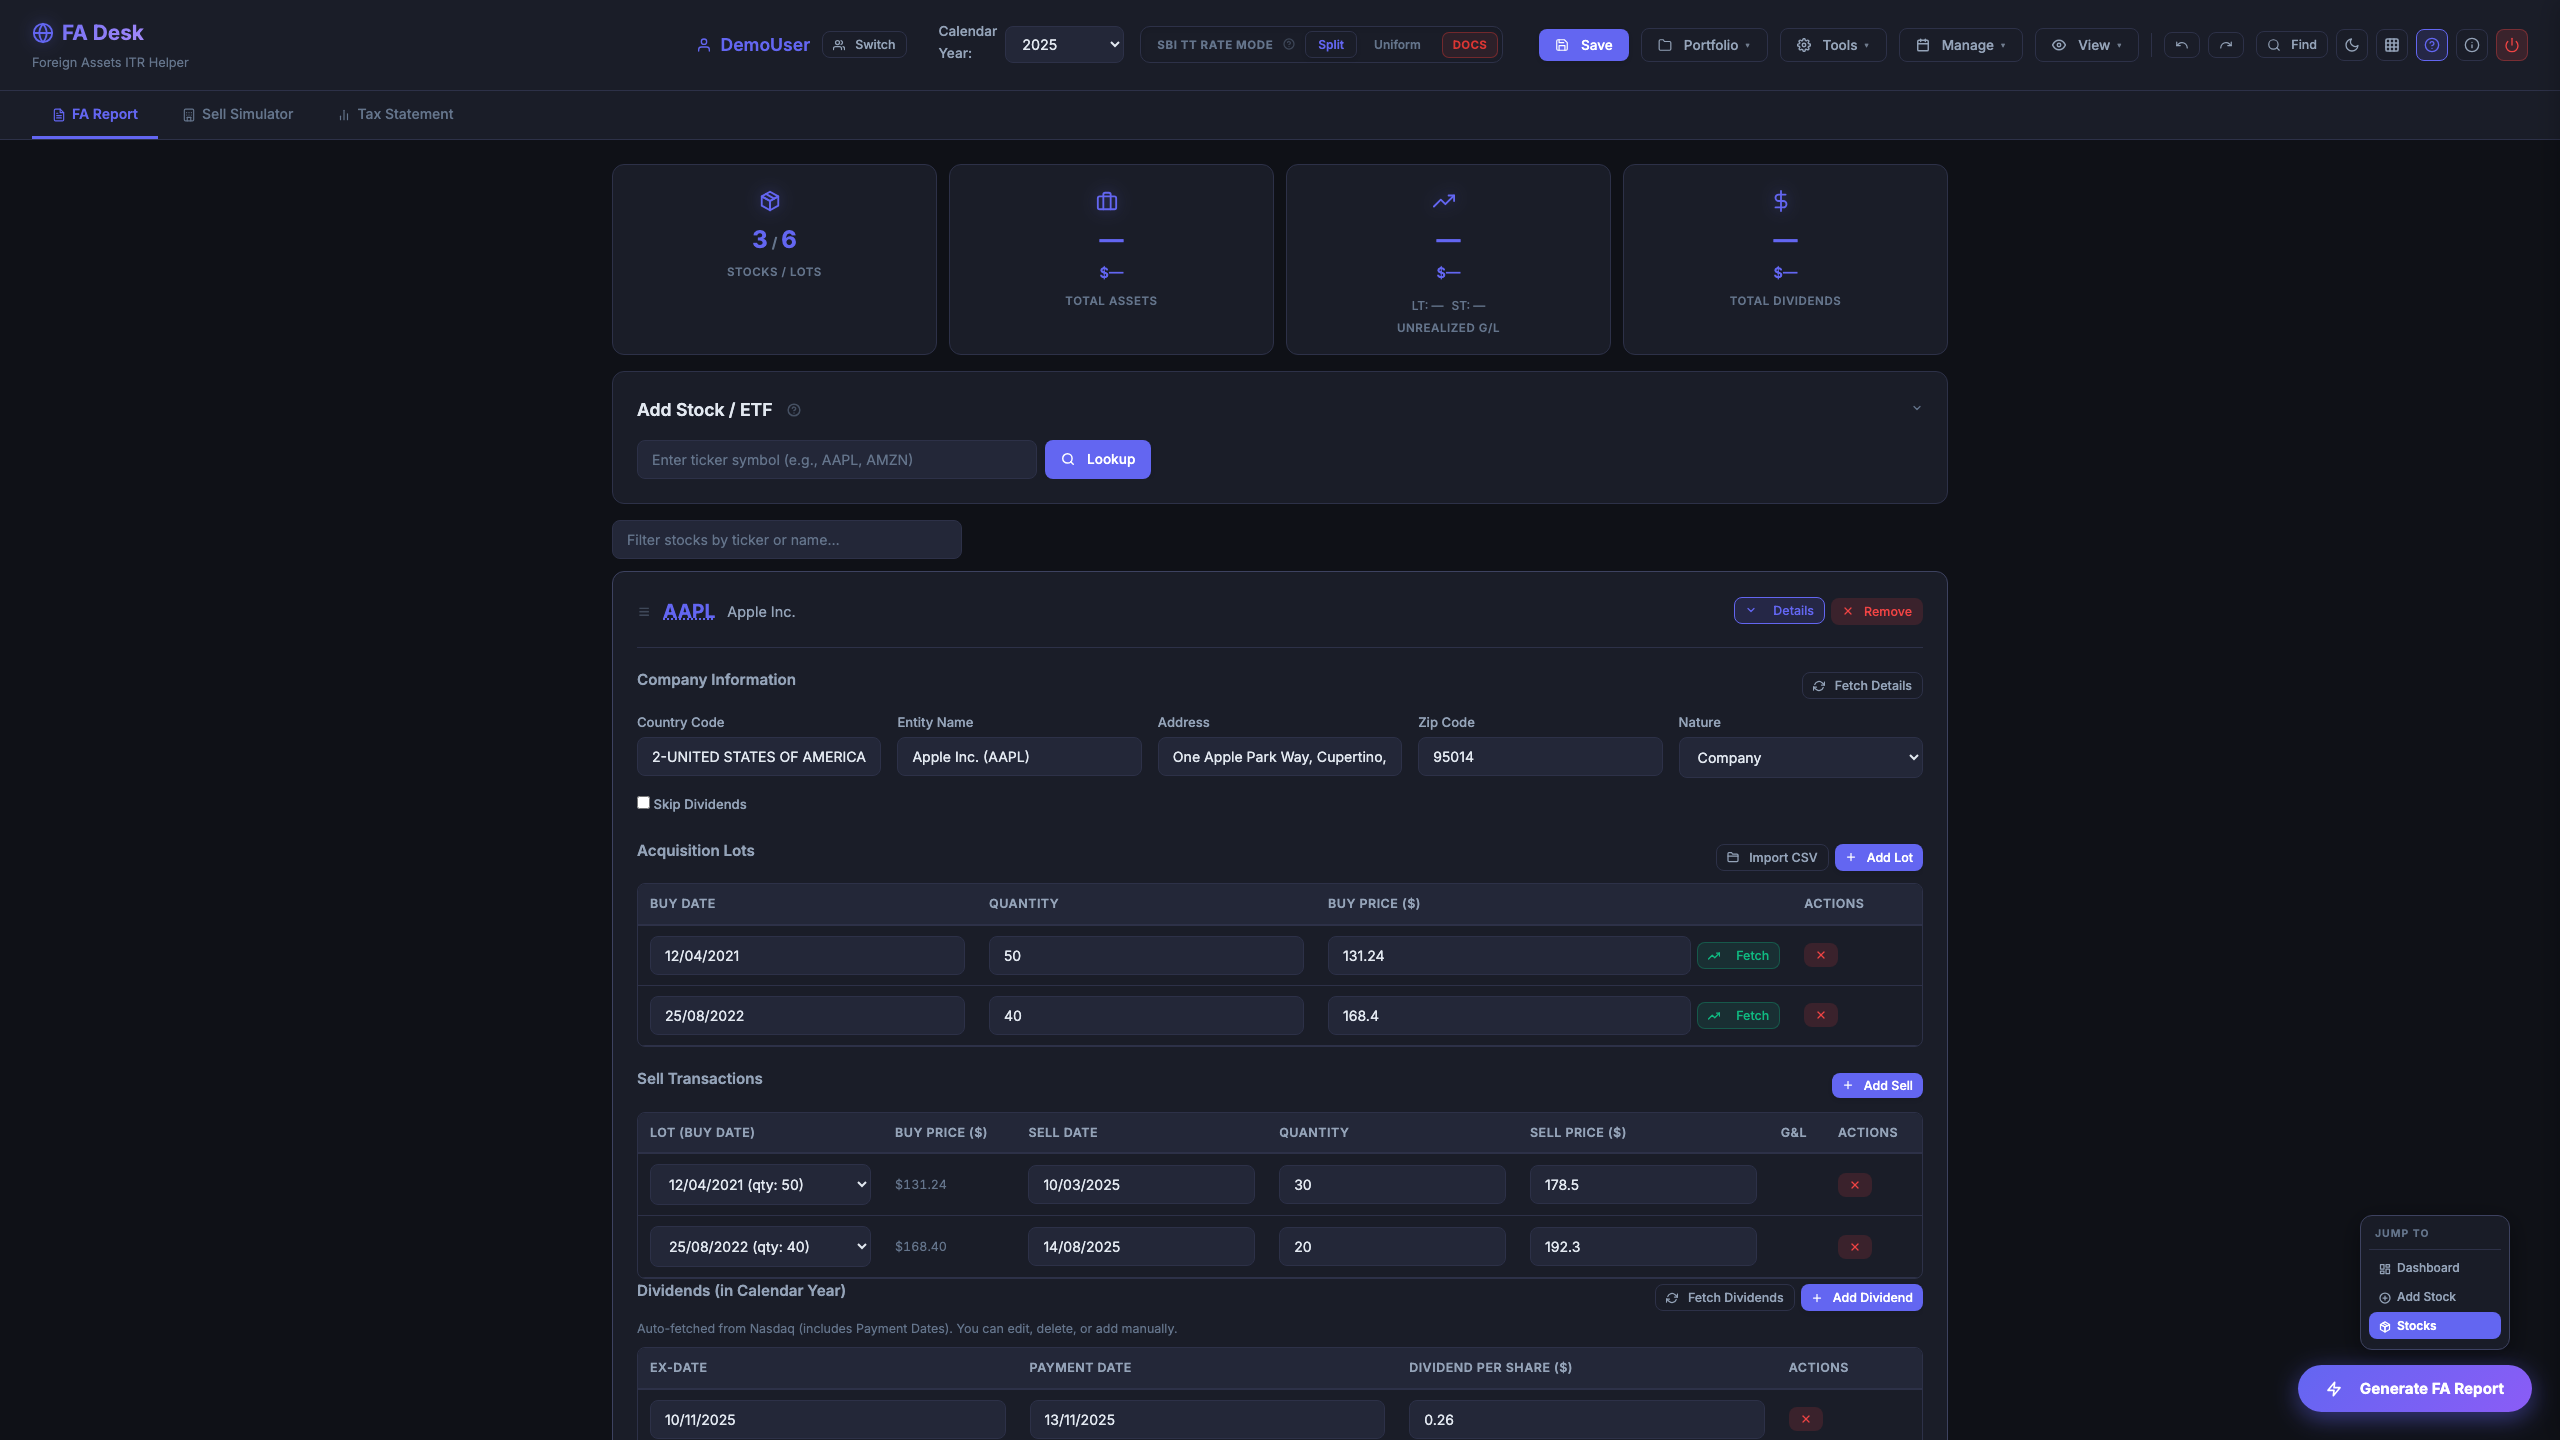
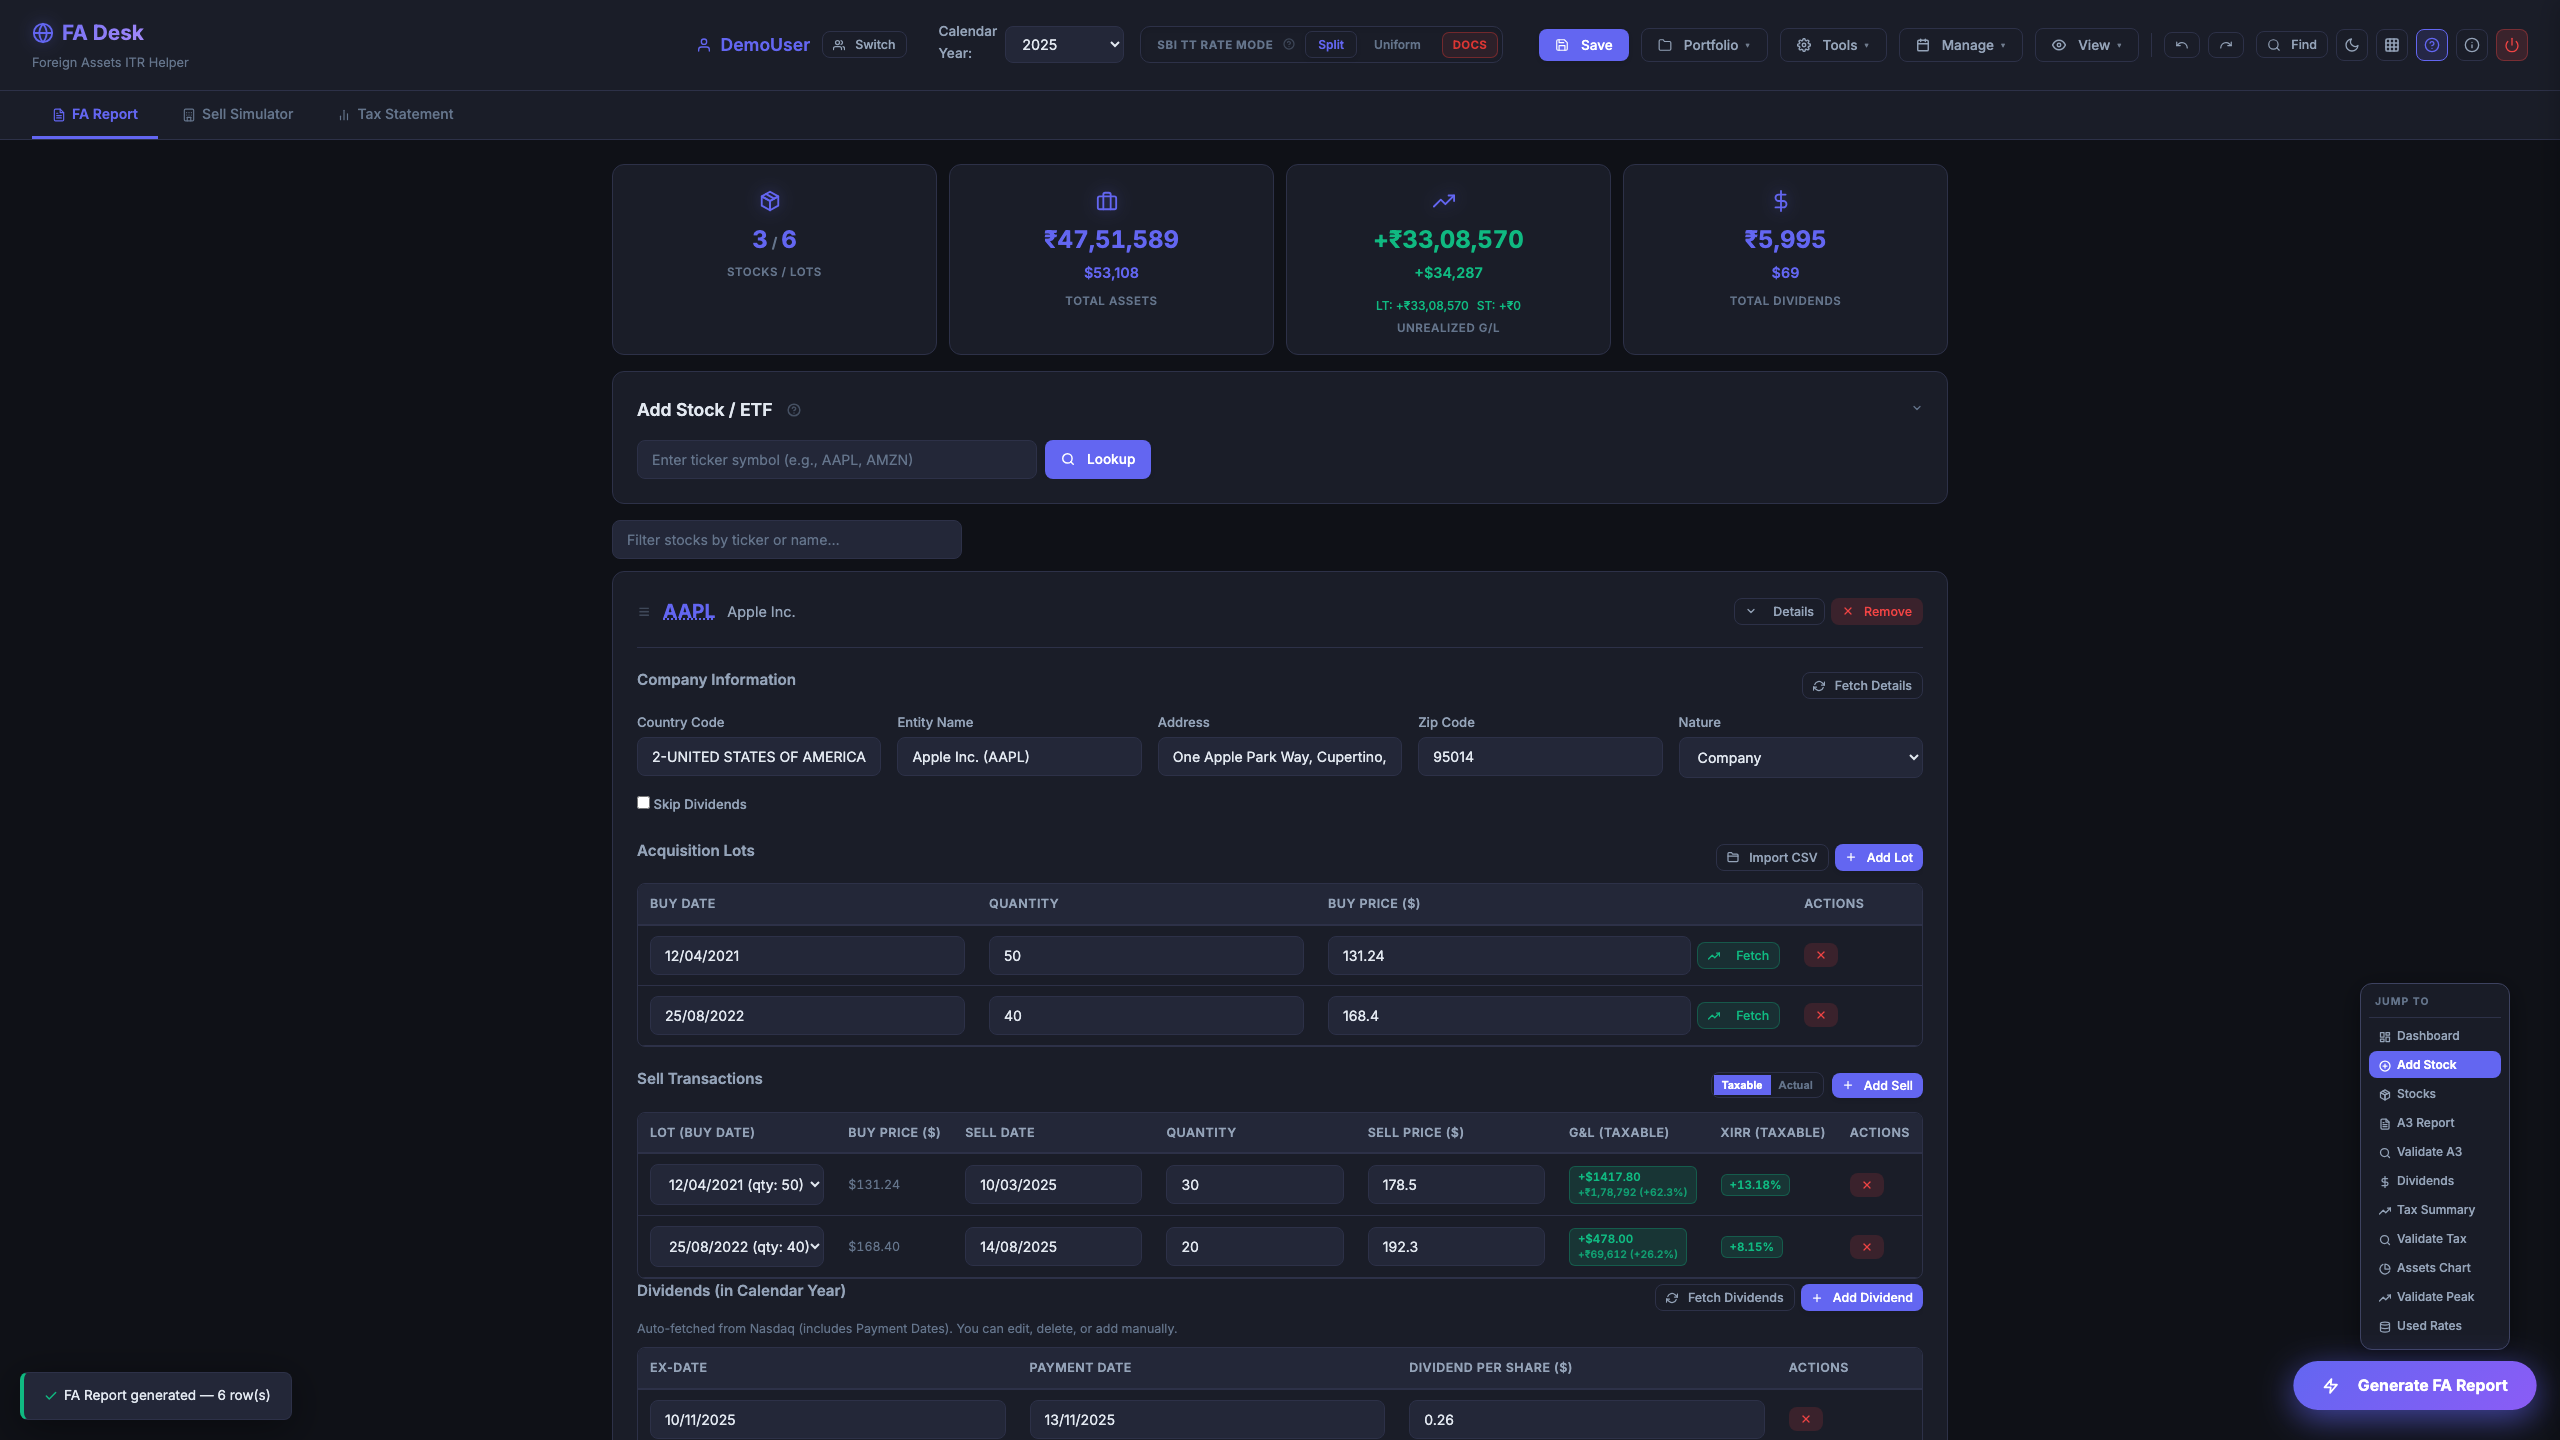
Update screenshot script to take portfolio dashboard post-calculation and regenerate all system screenshots

diff --git a/scripts/take_screenshots.py b/scripts/take_screenshots.py
@@ -108,11 +108,7 @@ def run_screenshot_flow():
             page.locator(".toggle-details-btn").first.click()
             time.sleep(1.5) # Let expansion transition complete
             
-            # 2. Portfolio Dashboard & Stock Cards
-            print("Capturing 02_portfolio_dashboard.png...")
-            page.screenshot(path=str(SCREENSHOTS_DIR / "02_portfolio_dashboard.png"))
-            
-            # Screenshot of the active stock cards
+            # Screenshot of the active stock cards (before report generation)
             print("Capturing 02c_stock_cards.png...")
             page.locator("#stockCards").screenshot(path=str(SCREENSHOTS_DIR / "02c_stock_cards.png"))
             
@@ -123,6 +119,12 @@ def run_screenshot_flow():
             # Wait for calculation results
             page.wait_for_selector("#resultsSection", state="visible")
             time.sleep(2.0)
+            
+            # 2. Portfolio Dashboard (post-report — shows updated values and preview)
+            print("Capturing 02_portfolio_dashboard.png...")
+            page.evaluate("window.scrollTo(0, 0)")
+            time.sleep(0.5)
+            page.screenshot(path=str(SCREENSHOTS_DIR / "02_portfolio_dashboard.png"))
             
             # 2b. Portfolio Dashboard Metrics (post-report — shows updated values)
             print("Capturing 02b_dashboard_summary.png (post-report)...")

diff --git a/tests/test_ui_regression.py b/tests/test_ui_regression.py
@@ -126,11 +126,7 @@ def test_ui_regression_flow():
             # Assert details exist inside expanded card
             assert page.locator(".lots-table").first.is_visible()
             
-            # 2. Portfolio Dashboard & Stock Cards
-            print("Capturing 02_portfolio_dashboard.png...")
-            page.screenshot(path=str(SCREENSHOTS_DIR / "02_portfolio_dashboard.png"))
-            
-            # Screenshot of the active stock cards
+            # Screenshot of the active stock cards (before report generation)
             print("Capturing 02c_stock_cards.png...")
             page.locator("#stockCards").screenshot(path=str(SCREENSHOTS_DIR / "02c_stock_cards.png"))
             
@@ -141,6 +137,12 @@ def test_ui_regression_flow():
             # Wait for calculation results
             page.wait_for_selector("#resultsSection", state="visible")
             time.sleep(2.0)
+            
+            # 2. Portfolio Dashboard (post-report — shows updated values and preview)
+            print("Capturing 02_portfolio_dashboard.png...")
+            page.evaluate("window.scrollTo(0, 0)")
+            time.sleep(0.5)
+            page.screenshot(path=str(SCREENSHOTS_DIR / "02_portfolio_dashboard.png"))
             
             # Assert A3 report header and rows exist
             assert page.locator("#resultsSection").is_visible()
